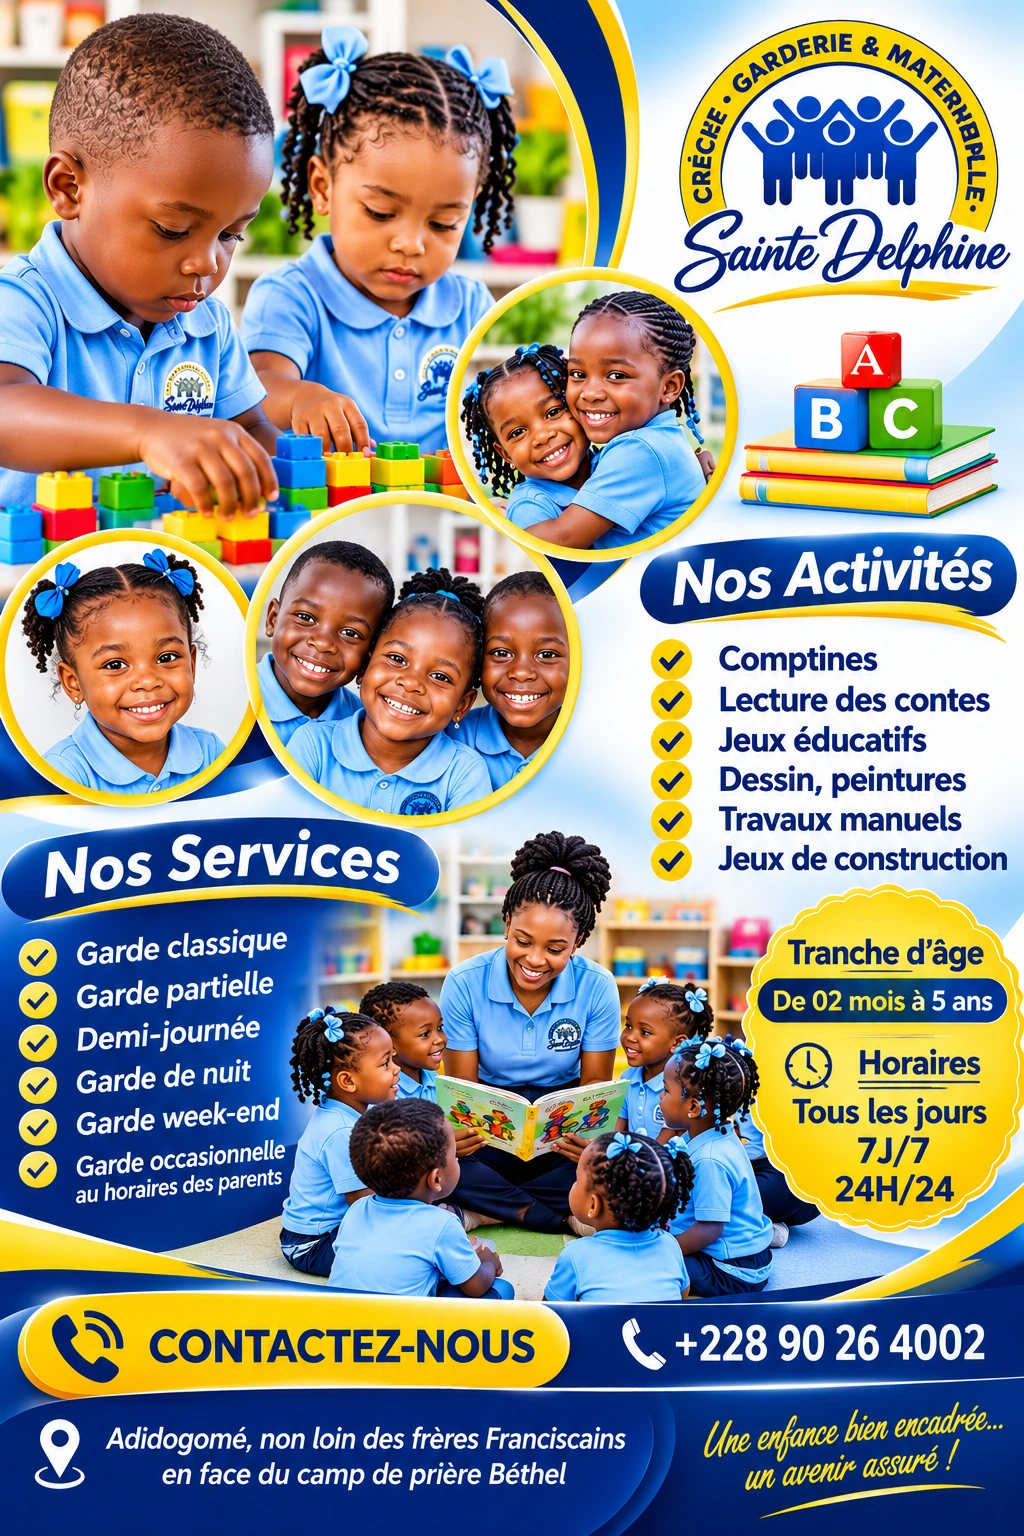
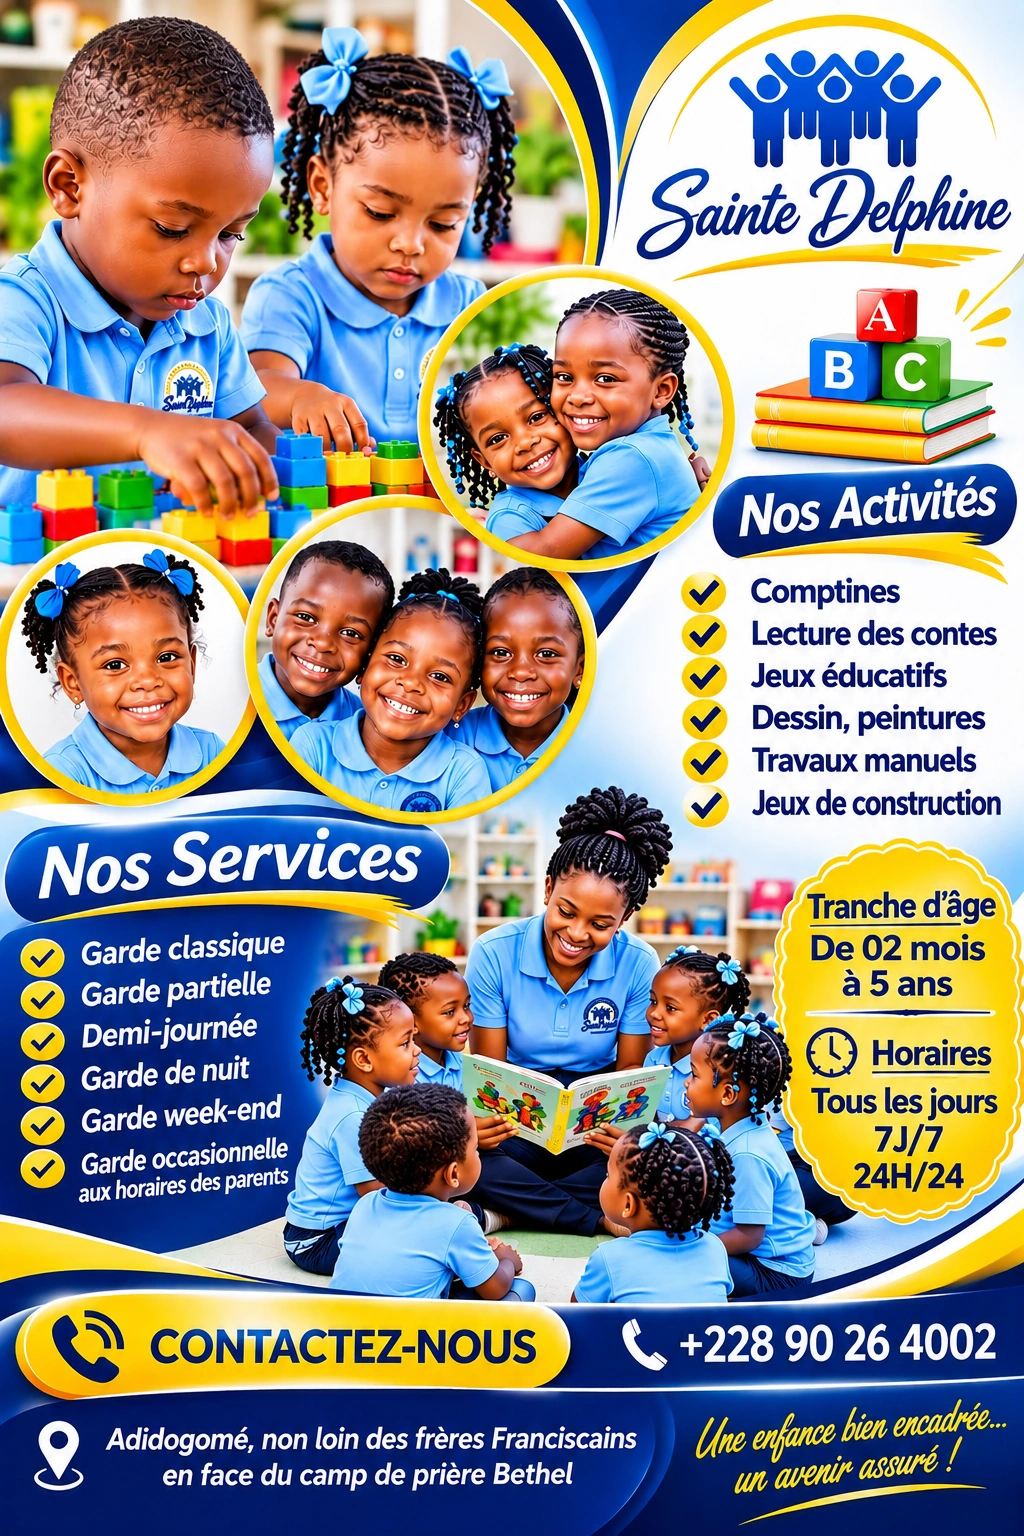
Refonte accueil: diaporama, affiche Sainte Delphine

diff --git a/index.html b/index.html
@@ -51,7 +51,7 @@
       </div>
       <div class="hs-slide hs-product hs-pub" aria-hidden="true">
         <div class="hs-content">
-          <div class="hs-affiche"><img src="assets/images/partenaires/creche-sainte-delphine-affiche-v2.webp?v=3" alt="Affiche de la crèche Sainte Delphine, garderie et maternelle" loading="lazy"></div>
+          <div class="hs-affiche"><img src="assets/images/partenaires/creche-sainte-delphine-affiche-v2.webp?v=5" alt="Affiche de la crèche Sainte Delphine, garderie et maternelle" loading="lazy"></div>
           <div><div class="tag">NOTRE PARTENAIRE</div>
           <h1>Crèche Sainte Delphine<br><span>garderie et maternelle.</span></h1>
           <ul class="hs-infos"><li>👶 De 2 mois à 5 ans</li><li>🕒 Tous les jours, 7J/7, 24H/24</li><li>📍 Adidogomé, en face du camp de prière Béthel</li></ul>
@@ -72,7 +72,7 @@
   <!-- PARTNERS:START -->
   <section class="partners" id="partenaires" aria-label="Nos partenaires">
     <div class="partners-label">PARTENAIRES &amp; PUBLICITÉ <a href="#nos-partenaires">Voir les fiches</a></div>
-    <div class="marquee"><div class="track"><a class="ad" href="tel:+22890264002"><img src="assets/images/partenaires/creche-sainte-delphine-logo.webp" alt="Logo Crèche Sainte Delphine" height="56" loading="lazy" onerror="this.remove()"><span class="ad-text"><strong>Crèche Sainte Delphine</strong><small>Crèche · Garderie · Maternelle</small><small>7j/7 · 24h/24 · Adidogomé</small></span><span class="ad-cta">Appeler +228 90 26 40 02</span></a><a class="ad flyer" href="#nos-partenaires"><img src="assets/images/partenaires/creche-sainte-delphine-affiche.webp" alt="Affiche de la Crèche Sainte Delphine" height="110" loading="lazy" onerror="this.parentNode.remove()"></a><a class="ad promo" href="https://wa.me/22879828669?text=Bonjour%20GTSI%2C%20je%20souhaite%20faire%20ma%20publicit%C3%A9%20sur%20votre%20site." target="_blank" rel="noopener noreferrer"><span class="ad-plus" aria-hidden="true">+</span><span class="ad-text"><strong>Votre publicité ici</strong><small>Entreprises, écoles, commerces</small></span><span class="ad-cta">Nous contacter</span></a><a class="ad" href="tel:+22890264002"><img src="assets/images/partenaires/creche-sainte-delphine-logo.webp" alt="Logo Crèche Sainte Delphine" height="56" loading="lazy" onerror="this.remove()"><span class="ad-text"><strong>Crèche Sainte Delphine</strong><small>Crèche · Garderie · Maternelle</small><small>7j/7 · 24h/24 · Adidogomé</small></span><span class="ad-cta">Appeler +228 90 26 40 02</span></a><a class="ad flyer" href="#nos-partenaires"><img src="assets/images/partenaires/creche-sainte-delphine-affiche.webp" alt="Affiche de la Crèche Sainte Delphine" height="110" loading="lazy" onerror="this.parentNode.remove()"></a><a class="ad promo" href="https://wa.me/22879828669?text=Bonjour%20GTSI%2C%20je%20souhaite%20faire%20ma%20publicit%C3%A9%20sur%20votre%20site." target="_blank" rel="noopener noreferrer"><span class="ad-plus" aria-hidden="true">+</span><span class="ad-text"><strong>Votre publicité ici</strong><small>Entreprises, écoles, commerces</small></span><span class="ad-cta">Nous contacter</span></a><a class="ad" href="tel:+22890264002"><img src="assets/images/partenaires/creche-sainte-delphine-logo.webp" alt="Logo Crèche Sainte Delphine" height="56" loading="lazy" onerror="this.remove()"><span class="ad-text"><strong>Crèche Sainte Delphine</strong><small>Crèche · Garderie · Maternelle</small><small>7j/7 · 24h/24 · Adidogomé</small></span><span class="ad-cta">Appeler +228 90 26 40 02</span></a><a class="ad flyer" href="#nos-partenaires"><img src="assets/images/partenaires/creche-sainte-delphine-affiche.webp" alt="Affiche de la Crèche Sainte Delphine" height="110" loading="lazy" onerror="this.parentNode.remove()"></a><a class="ad promo" href="https://wa.me/22879828669?text=Bonjour%20GTSI%2C%20je%20souhaite%20faire%20ma%20publicit%C3%A9%20sur%20votre%20site." target="_blank" rel="noopener noreferrer"><span class="ad-plus" aria-hidden="true">+</span><span class="ad-text"><strong>Votre publicité ici</strong><small>Entreprises, écoles, commerces</small></span><span class="ad-cta">Nous contacter</span></a><a class="ad" href="tel:+22890264002" tabindex="-1" aria-hidden="true"><img src="assets/images/partenaires/creche-sainte-delphine-logo.webp" alt="Logo Crèche Sainte Delphine" height="56" loading="lazy" onerror="this.remove()"><span class="ad-text"><strong>Crèche Sainte Delphine</strong><small>Crèche · Garderie · Maternelle</small><small>7j/7 · 24h/24 · Adidogomé</small></span><span class="ad-cta">Appeler +228 90 26 40 02</span></a><a class="ad flyer" href="#nos-partenaires" tabindex="-1" aria-hidden="true"><img src="assets/images/partenaires/creche-sainte-delphine-affiche.webp" alt="Affiche de la Crèche Sainte Delphine" height="110" loading="lazy" onerror="this.parentNode.remove()"></a><a class="ad promo" href="https://wa.me/22879828669?text=Bonjour%20GTSI%2C%20je%20souhaite%20faire%20ma%20publicit%C3%A9%20sur%20votre%20site." target="_blank" rel="noopener noreferrer" tabindex="-1" aria-hidden="true"><span class="ad-plus" aria-hidden="true">+</span><span class="ad-text"><strong>Votre publicité ici</strong><small>Entreprises, écoles, commerces</small></span><span class="ad-cta">Nous contacter</span></a><a class="ad" href="tel:+22890264002" tabindex="-1" aria-hidden="true"><img src="assets/images/partenaires/creche-sainte-delphine-logo.webp" alt="Logo Crèche Sainte Delphine" height="56" loading="lazy" onerror="this.remove()"><span class="ad-text"><strong>Crèche Sainte Delphine</strong><small>Crèche · Garderie · Maternelle</small><small>7j/7 · 24h/24 · Adidogomé</small></span><span class="ad-cta">Appeler +228 90 26 40 02</span></a><a class="ad flyer" href="#nos-partenaires" tabindex="-1" aria-hidden="true"><img src="assets/images/partenaires/creche-sainte-delphine-affiche.webp" alt="Affiche de la Crèche Sainte Delphine" height="110" loading="lazy" onerror="this.parentNode.remove()"></a><a class="ad promo" href="https://wa.me/22879828669?text=Bonjour%20GTSI%2C%20je%20souhaite%20faire%20ma%20publicit%C3%A9%20sur%20votre%20site." target="_blank" rel="noopener noreferrer" tabindex="-1" aria-hidden="true"><span class="ad-plus" aria-hidden="true">+</span><span class="ad-text"><strong>Votre publicité ici</strong><small>Entreprises, écoles, commerces</small></span><span class="ad-cta">Nous contacter</span></a><a class="ad" href="tel:+22890264002" tabindex="-1" aria-hidden="true"><img src="assets/images/partenaires/creche-sainte-delphine-logo.webp" alt="Logo Crèche Sainte Delphine" height="56" loading="lazy" onerror="this.remove()"><span class="ad-text"><strong>Crèche Sainte Delphine</strong><small>Crèche · Garderie · Maternelle</small><small>7j/7 · 24h/24 · Adidogomé</small></span><span class="ad-cta">Appeler +228 90 26 40 02</span></a><a class="ad flyer" href="#nos-partenaires" tabindex="-1" aria-hidden="true"><img src="assets/images/partenaires/creche-sainte-delphine-affiche.webp" alt="Affiche de la Crèche Sainte Delphine" height="110" loading="lazy" onerror="this.parentNode.remove()"></a><a class="ad promo" href="https://wa.me/22879828669?text=Bonjour%20GTSI%2C%20je%20souhaite%20faire%20ma%20publicit%C3%A9%20sur%20votre%20site." target="_blank" rel="noopener noreferrer" tabindex="-1" aria-hidden="true"><span class="ad-plus" aria-hidden="true">+</span><span class="ad-text"><strong>Votre publicité ici</strong><small>Entreprises, écoles, commerces</small></span><span class="ad-cta">Nous contacter</span></a></div></div>
+    <div class="marquee"><div class="track"><a class="ad" href="tel:+22890264002"><img src="assets/images/partenaires/creche-sainte-delphine-logo.webp" alt="Logo Crèche Sainte Delphine" height="56" loading="lazy" onerror="this.remove()"><span class="ad-text"><strong>Crèche Sainte Delphine</strong><small>Crèche · Garderie · Maternelle</small><small>7j/7 · 24h/24 · Adidogomé</small></span><span class="ad-cta">Appeler +228 90 26 40 02</span></a><a class="ad flyer" href="#nos-partenaires"><img src="assets/images/partenaires/creche-sainte-delphine-affiche.webp?v=5" alt="Affiche de la Crèche Sainte Delphine" height="110" loading="lazy" onerror="this.parentNode.remove()"></a><a class="ad promo" href="https://wa.me/22879828669?text=Bonjour%20GTSI%2C%20je%20souhaite%20faire%20ma%20publicit%C3%A9%20sur%20votre%20site." target="_blank" rel="noopener noreferrer"><span class="ad-plus" aria-hidden="true">+</span><span class="ad-text"><strong>Votre publicité ici</strong><small>Entreprises, écoles, commerces</small></span><span class="ad-cta">Nous contacter</span></a><a class="ad" href="tel:+22890264002"><img src="assets/images/partenaires/creche-sainte-delphine-logo.webp" alt="Logo Crèche Sainte Delphine" height="56" loading="lazy" onerror="this.remove()"><span class="ad-text"><strong>Crèche Sainte Delphine</strong><small>Crèche · Garderie · Maternelle</small><small>7j/7 · 24h/24 · Adidogomé</small></span><span class="ad-cta">Appeler +228 90 26 40 02</span></a><a class="ad flyer" href="#nos-partenaires"><img src="assets/images/partenaires/creche-sainte-delphine-affiche.webp?v=5" alt="Affiche de la Crèche Sainte Delphine" height="110" loading="lazy" onerror="this.parentNode.remove()"></a><a class="ad promo" href="https://wa.me/22879828669?text=Bonjour%20GTSI%2C%20je%20souhaite%20faire%20ma%20publicit%C3%A9%20sur%20votre%20site." target="_blank" rel="noopener noreferrer"><span class="ad-plus" aria-hidden="true">+</span><span class="ad-text"><strong>Votre publicité ici</strong><small>Entreprises, écoles, commerces</small></span><span class="ad-cta">Nous contacter</span></a><a class="ad" href="tel:+22890264002"><img src="assets/images/partenaires/creche-sainte-delphine-logo.webp" alt="Logo Crèche Sainte Delphine" height="56" loading="lazy" onerror="this.remove()"><span class="ad-text"><strong>Crèche Sainte Delphine</strong><small>Crèche · Garderie · Maternelle</small><small>7j/7 · 24h/24 · Adidogomé</small></span><span class="ad-cta">Appeler +228 90 26 40 02</span></a><a class="ad flyer" href="#nos-partenaires"><img src="assets/images/partenaires/creche-sainte-delphine-affiche.webp?v=5" alt="Affiche de la Crèche Sainte Delphine" height="110" loading="lazy" onerror="this.parentNode.remove()"></a><a class="ad promo" href="https://wa.me/22879828669?text=Bonjour%20GTSI%2C%20je%20souhaite%20faire%20ma%20publicit%C3%A9%20sur%20votre%20site." target="_blank" rel="noopener noreferrer"><span class="ad-plus" aria-hidden="true">+</span><span class="ad-text"><strong>Votre publicité ici</strong><small>Entreprises, écoles, commerces</small></span><span class="ad-cta">Nous contacter</span></a><a class="ad" href="tel:+22890264002" tabindex="-1" aria-hidden="true"><img src="assets/images/partenaires/creche-sainte-delphine-logo.webp" alt="Logo Crèche Sainte Delphine" height="56" loading="lazy" onerror="this.remove()"><span class="ad-text"><strong>Crèche Sainte Delphine</strong><small>Crèche · Garderie · Maternelle</small><small>7j/7 · 24h/24 · Adidogomé</small></span><span class="ad-cta">Appeler +228 90 26 40 02</span></a><a class="ad flyer" href="#nos-partenaires" tabindex="-1" aria-hidden="true"><img src="assets/images/partenaires/creche-sainte-delphine-affiche.webp?v=5" alt="Affiche de la Crèche Sainte Delphine" height="110" loading="lazy" onerror="this.parentNode.remove()"></a><a class="ad promo" href="https://wa.me/22879828669?text=Bonjour%20GTSI%2C%20je%20souhaite%20faire%20ma%20publicit%C3%A9%20sur%20votre%20site." target="_blank" rel="noopener noreferrer" tabindex="-1" aria-hidden="true"><span class="ad-plus" aria-hidden="true">+</span><span class="ad-text"><strong>Votre publicité ici</strong><small>Entreprises, écoles, commerces</small></span><span class="ad-cta">Nous contacter</span></a><a class="ad" href="tel:+22890264002" tabindex="-1" aria-hidden="true"><img src="assets/images/partenaires/creche-sainte-delphine-logo.webp" alt="Logo Crèche Sainte Delphine" height="56" loading="lazy" onerror="this.remove()"><span class="ad-text"><strong>Crèche Sainte Delphine</strong><small>Crèche · Garderie · Maternelle</small><small>7j/7 · 24h/24 · Adidogomé</small></span><span class="ad-cta">Appeler +228 90 26 40 02</span></a><a class="ad flyer" href="#nos-partenaires" tabindex="-1" aria-hidden="true"><img src="assets/images/partenaires/creche-sainte-delphine-affiche.webp?v=5" alt="Affiche de la Crèche Sainte Delphine" height="110" loading="lazy" onerror="this.parentNode.remove()"></a><a class="ad promo" href="https://wa.me/22879828669?text=Bonjour%20GTSI%2C%20je%20souhaite%20faire%20ma%20publicit%C3%A9%20sur%20votre%20site." target="_blank" rel="noopener noreferrer" tabindex="-1" aria-hidden="true"><span class="ad-plus" aria-hidden="true">+</span><span class="ad-text"><strong>Votre publicité ici</strong><small>Entreprises, écoles, commerces</small></span><span class="ad-cta">Nous contacter</span></a><a class="ad" href="tel:+22890264002" tabindex="-1" aria-hidden="true"><img src="assets/images/partenaires/creche-sainte-delphine-logo.webp" alt="Logo Crèche Sainte Delphine" height="56" loading="lazy" onerror="this.remove()"><span class="ad-text"><strong>Crèche Sainte Delphine</strong><small>Crèche · Garderie · Maternelle</small><small>7j/7 · 24h/24 · Adidogomé</small></span><span class="ad-cta">Appeler +228 90 26 40 02</span></a><a class="ad flyer" href="#nos-partenaires" tabindex="-1" aria-hidden="true"><img src="assets/images/partenaires/creche-sainte-delphine-affiche.webp?v=5" alt="Affiche de la Crèche Sainte Delphine" height="110" loading="lazy" onerror="this.parentNode.remove()"></a><a class="ad promo" href="https://wa.me/22879828669?text=Bonjour%20GTSI%2C%20je%20souhaite%20faire%20ma%20publicit%C3%A9%20sur%20votre%20site." target="_blank" rel="noopener noreferrer" tabindex="-1" aria-hidden="true"><span class="ad-plus" aria-hidden="true">+</span><span class="ad-text"><strong>Votre publicité ici</strong><small>Entreprises, écoles, commerces</small></span><span class="ad-cta">Nous contacter</span></a></div></div>
   </section>
   <!-- PARTNERS:END -->
 
@@ -313,7 +313,7 @@
       <h2>Publicité et partenaires</h2>
       <p class="section-intro">Entreprises, écoles, commerces : faites connaître votre activité sur le site GTSI. Votre annonce (logo, adresse, téléphone) s'affiche dans le bandeau défilant et dans une fiche dédiée. Contactez-nous pour connaître les conditions.</p>
       <div class="partner-cards">
-        <article class="partner-card"><div class="pc-head"><img src="assets/images/partenaires/creche-sainte-delphine-logo.webp" alt="Logo Crèche Sainte Delphine" loading="lazy" onerror="this.remove()"><div><h3>Crèche Sainte Delphine</h3><p>Crèche · Garderie · Maternelle</p></div></div><a class="pc-flyer" href="assets/images/partenaires/creche-sainte-delphine-affiche.webp" target="_blank" rel="noopener noreferrer"><img src="assets/images/partenaires/creche-sainte-delphine-affiche.webp" alt="Affiche de la Crèche Sainte Delphine" loading="lazy" onerror="this.parentNode.remove()"></a><ul class="pc-info"><li><strong>Localisation</strong>Adidogomé (Lomé, Togo)</li><li><strong>Adresse</strong>Non loin des frères Franciscains, en face du camp de prière Béthel</li><li><strong>Téléphone</strong><a href="tel:+22890264002">+228 90 26 40 02</a></li><li><strong>Tranche d'âge</strong>De 3 mois à 3 ans</li><li><strong>Horaires</strong>Tous les jours, 7j/7 · 24h/24</li></ul><div class="pc-cols"><div><h4>Services</h4><ul><li>Garde classique</li><li>Garde partielle</li><li>Demi-journée</li><li>Garde de nuit</li><li>Garde week-end</li><li>Garde occasionnelle aux horaires des parents</li></ul></div><div><h4>Activités</h4><ul><li>Comptines</li><li>Lecture des contes</li><li>Jeux éducatifs</li><li>Dessin et peintures</li><li>Travaux manuels</li><li>Jeux de construction</li></ul></div></div><div class="pc-actions"><a class="btn" href="tel:+22890264002">Appeler</a><a class="btn secondary" href="https://www.google.com/maps/search/?api=1&amp;query=Cr%C3%A8che%20Sainte%20Delphine%20Adidogom%C3%A9%20%28Lom%C3%A9%2C%20Togo%29" target="_blank" rel="noopener noreferrer">Voir sur la carte</a></div></article>
+        <article class="partner-card"><div class="pc-head"><img src="assets/images/partenaires/creche-sainte-delphine-logo.webp" alt="Logo Crèche Sainte Delphine" loading="lazy" onerror="this.remove()"><div><h3>Crèche Sainte Delphine</h3><p>Crèche · Garderie · Maternelle</p></div></div><a class="pc-flyer" href="assets/images/partenaires/creche-sainte-delphine-affiche.webp?v=5" target="_blank" rel="noopener noreferrer"><img src="assets/images/partenaires/creche-sainte-delphine-affiche.webp?v=5" alt="Affiche de la Crèche Sainte Delphine" loading="lazy" onerror="this.parentNode.remove()"></a><ul class="pc-info"><li><strong>Localisation</strong>Adidogomé (Lomé, Togo)</li><li><strong>Adresse</strong>Non loin des frères Franciscains, en face du camp de prière Béthel</li><li><strong>Téléphone</strong><a href="tel:+22890264002">+228 90 26 40 02</a></li><li><strong>Tranche d'âge</strong>De 3 mois à 3 ans</li><li><strong>Horaires</strong>Tous les jours, 7j/7 · 24h/24</li></ul><div class="pc-cols"><div><h4>Services</h4><ul><li>Garde classique</li><li>Garde partielle</li><li>Demi-journée</li><li>Garde de nuit</li><li>Garde week-end</li><li>Garde occasionnelle aux horaires des parents</li></ul></div><div><h4>Activités</h4><ul><li>Comptines</li><li>Lecture des contes</li><li>Jeux éducatifs</li><li>Dessin et peintures</li><li>Travaux manuels</li><li>Jeux de construction</li></ul></div></div><div class="pc-actions"><a class="btn" href="tel:+22890264002">Appeler</a><a class="btn secondary" href="https://www.google.com/maps/search/?api=1&amp;query=Cr%C3%A8che%20Sainte%20Delphine%20Adidogom%C3%A9%20%28Lom%C3%A9%2C%20Togo%29" target="_blank" rel="noopener noreferrer">Voir sur la carte</a></div></article>
         <article class="partner-card promo"><h3>Votre entreprise ou votre école ici</h3><p>Présentez votre activité, votre adresse et votre téléphone à tous les visiteurs du site GTSI.</p><div class="pc-actions"><a class="btn" href="https://wa.me/22879828669?text=Bonjour%20GTSI%2C%20je%20souhaite%20faire%20ma%20publicit%C3%A9%20sur%20votre%20site." target="_blank" rel="noopener noreferrer">Nous contacter</a></div></article>
       </div>
     </div>
